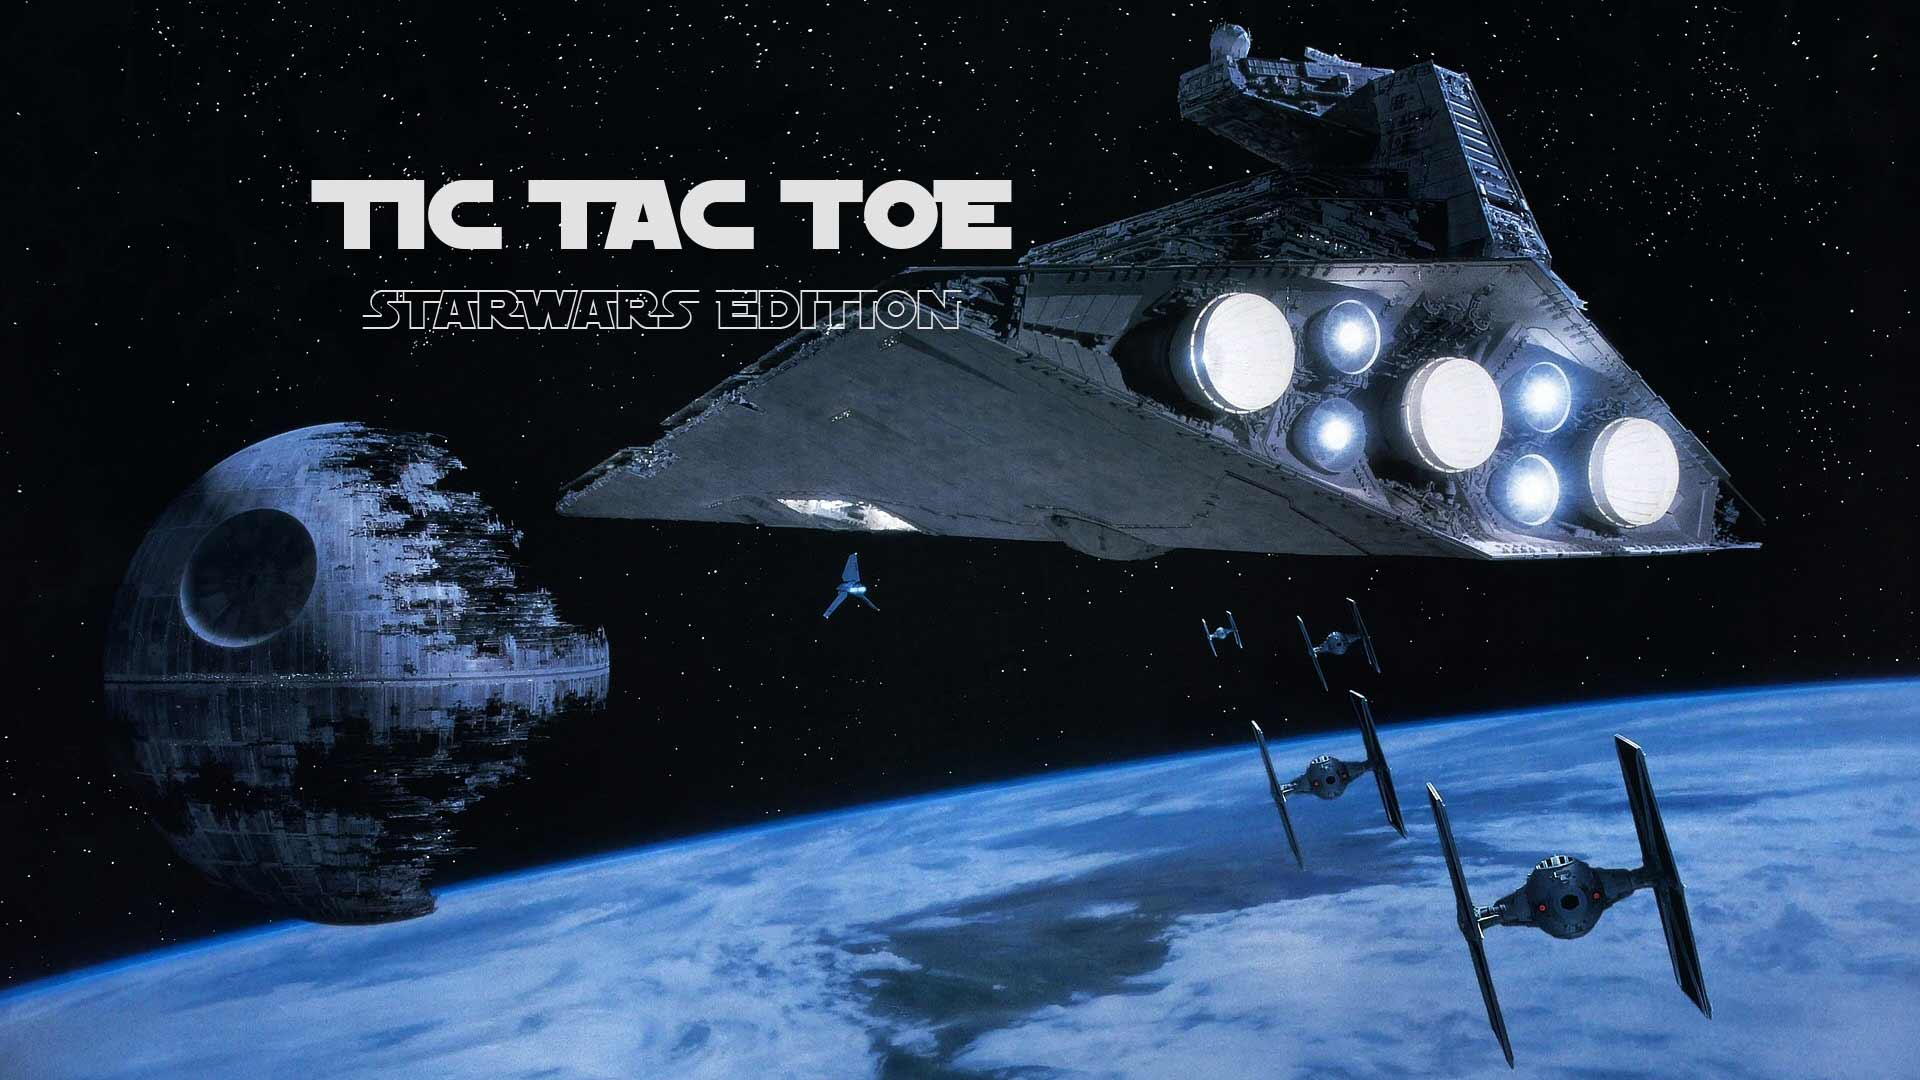
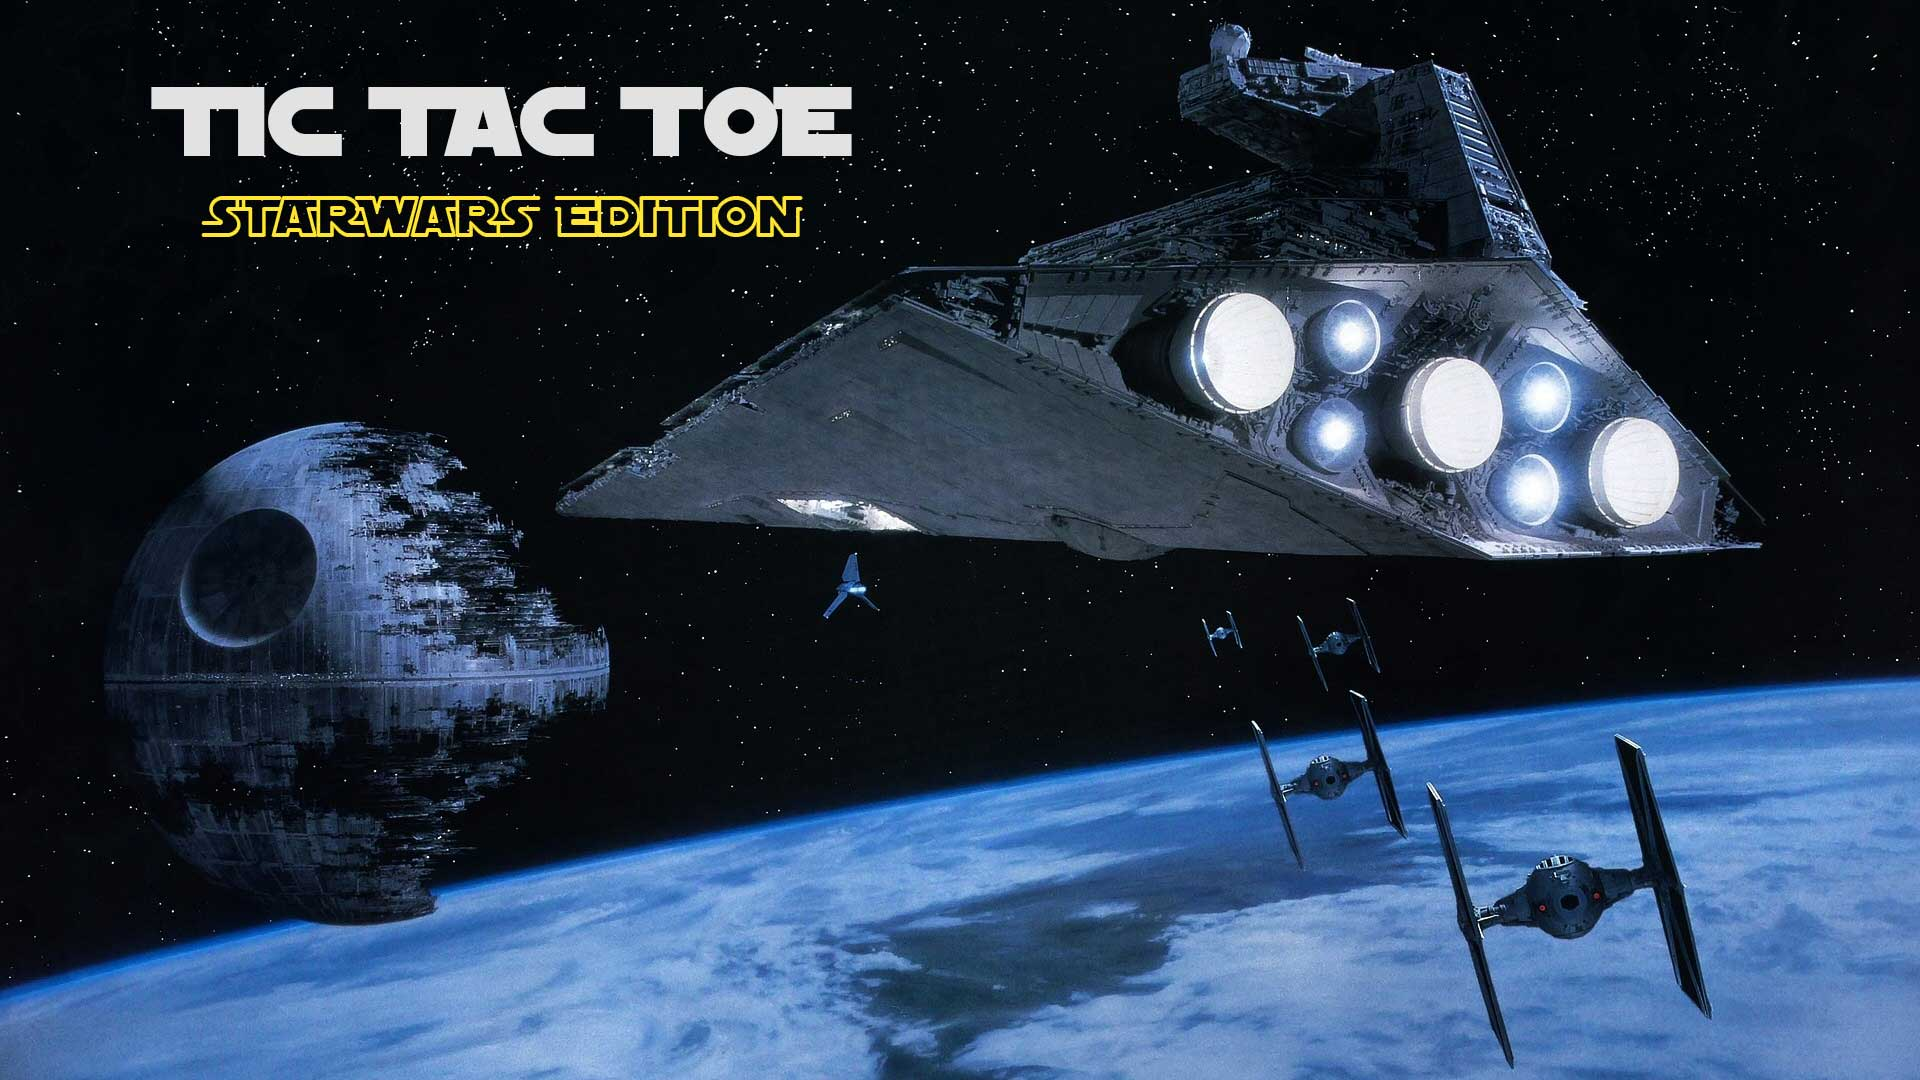
edited font type and cleaned css

Changed region(s): [[0.0625, 0.0611, 0.5312, 0.2444], [0.1875, 0.275, 0.5, 0.3056]]

diff --git a/style.css b/style.css
@@ -9,7 +9,7 @@ body {
 #galactic-battleground {
 	width: 500px;
 	margin: 0 auto;
-	padding-top: 230px;
+	padding-top: 187px;
 
 }
 .container {
@@ -19,12 +19,18 @@ body {
     padding-left: 38px;
 }
 
+/********  SCOREBOARD  *************/
+
 #galactic-battleground h2 {
 	text-align: center; 
-	font-size: 28px;
-	font-family: Arial, Helvetica, sans-serif;
-	color: #87CEFA;
+	font-size: 1.7em;
+	font-family: 'Orbitron', sans-serif;
+	color: white;
 	margin-bottom: 3px;
+	margin-left: -43px;
+	font-weight: bold;
+	border-bottom: solid white;
+	line-height: 42px;
 }
 
 
@@ -34,7 +40,7 @@ body {
 	clear:both;
 	margin: 0 auto;
 }
-
+/*********************/
 #gameboard li {
 	list-style: none;
 	display: inline-block;
@@ -62,20 +68,14 @@ body {
 }
 
 .players h3 {
-	font-family: Arial, Helvetica, sans-serif;
+	font-family: 'Orbitron', sans-serif;
 	font-size: 20px;
 	color: white;
-	float: left;
-	padding-left: 10px;
-	padding-right: 10px;
+	display: inline;
 	margin-top: 0;
 }
 .scoreboard h2 {
 	margin-top: 48px;
-}
-#yodaScore h3 {
-	color: #98FB98;
-
 }
 
 .wins.add-on h3 {
@@ -90,7 +90,9 @@ body {
 
 
 .score-container {
-	margin-left: 20px;
+	width: 335px;
+    margin-left: 32px;
+    margin-top: 20px;
 }
 .play-button {
 	border-radius: 3px;
@@ -100,10 +102,11 @@ body {
 	margin-top: 20px;
 	padding-left: 124px;
 }
+
 a {
-	font-family: Arial, Helvetica, sans-serif;
+	font-family: 'Orbitron', sans-serif;
 	font-size: 20px;
-	color: #FFA500;
+	color: #fee53f;
 	font-weight: bold;
 	margin: 0 auto;
 	text-decoration: none;
@@ -113,11 +116,7 @@ a {
 }
 
 #galactic-battleground #reset { 
-	font-family: Arial, Helvetica, sans-serif;
 	width:204px;
-	font-size:20px; 
-	text-align: center; 
-	text-transform: uppercase; 
 	padding:5px 10px; 
 	color: black; 
 	float: left; 
@@ -129,17 +128,18 @@ a {
 #galactic-battleground .disarm {
 	background-image: none;
 	width: 100px;
-	height: 100px;}
+	height: 100px;
+}
 
 .input-prepend span.pre_text {
-	width:55px
+	width:55px;
 }
 
 .input-prepend .span1 {
-	width:350px
+	width:350px;
 }
 
 .input-prepend {
-	margin-bottom:10px
+	margin-bottom:20px;
 }
 

diff --git a/main.html b/main.html
@@ -5,6 +5,7 @@
 	<title>Tic-tac-toe</title>
 
 <link rel="stylesheet" type="text/css" href="style.css">
+<link href='https://fonts.googleapis.com/css?family=Orbitron:700' rel='stylesheet' type='text/css'>
 
 
 </head>
@@ -17,12 +18,13 @@
       	<h2>SCOREBOARD</h2>
         <div class="scoreboard input-prepend input-append">
           <div class="score-container">
-          	<span class="add-on players"><h3>Yoda:</h3><h3 id="yodaScore" class="wins add-on">0</h3></span>
-        <div class="input-prepend input-append">
-          <span class="add-on players"><h3>Darth Vader: </h3><h3 id="darthScore" class="wins add-on">0</h3></span>
+          	<span class="add-on players"><h3>Yoda:&nbsp;&nbsp;</h3><h3 id="yodaScore" class="wins add-on">0</h3></span>
           </div>
-        </div>
-
+        <div class="input-prepend input-append">
+        	<div class="score-container">
+          <span class="add-on players"><h3>Darth Vader:&nbsp;&nbsp;</h3><h3 id="darthScore" class="wins add-on">0</h3></span>
+          	</div>
+          </div>
       </div>
     </div>
 	    <ul class="row" id="gameboard">
@@ -37,7 +39,7 @@
 	      <li class="btn square-img"><img src="images/square.jpg" style="width:100px; height:100px" id="square9"></li>
 	    </ul>
  
-   		<div class="play-button"><a href="#" id="reload" class="btn-success btn span1">Play Again</a></div>
+   		<div class="play-button"><a href="#" id="reload" class="btn-success btn span1">PLAY AGAIN</a></div>
 	</div>
 </div>
 
